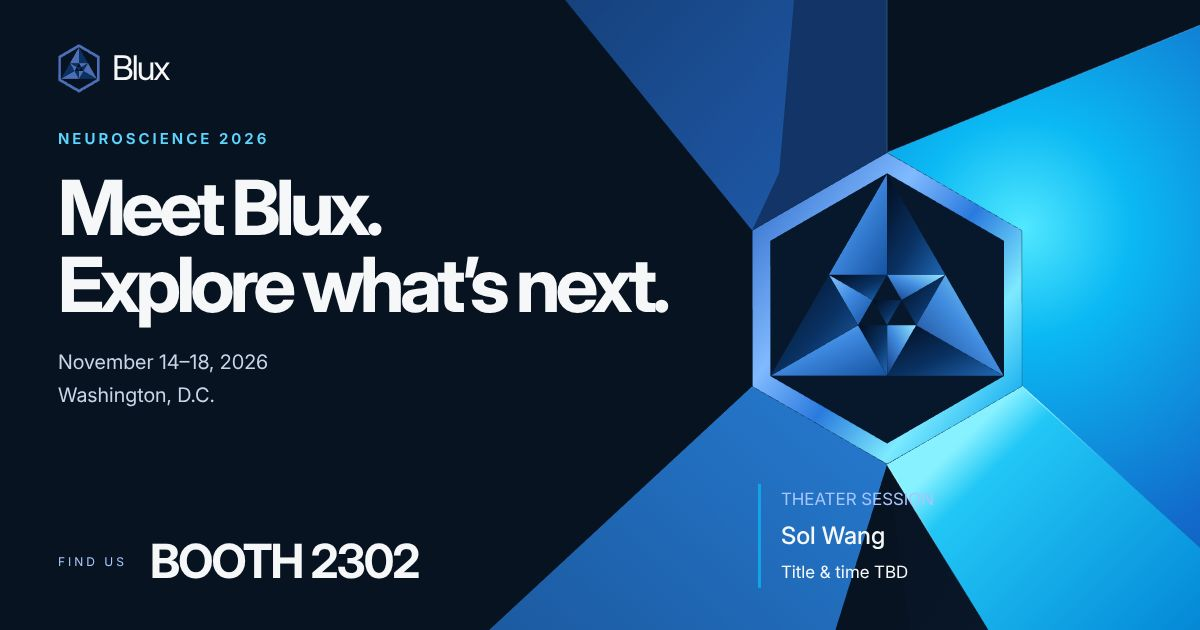
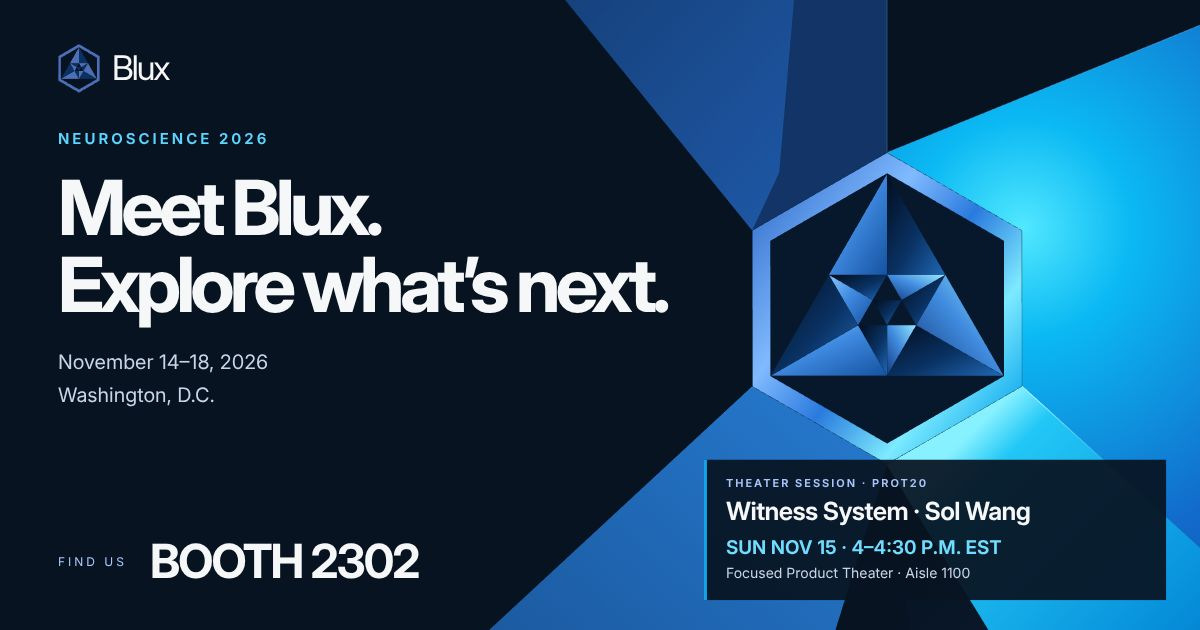
Publish confirmed SfN Product Theater schedule and social preview

Changed region(s): [[0.5858, 0.7238, 0.9867, 0.9651]]

diff --git a/public/events/neuroscience-2026/index.html b/public/events/neuroscience-2026/index.html
@@ -5,21 +5,21 @@
   <meta name="viewport" content="width=device-width, initial-scale=1" />
   <meta name="theme-color" content="#081321" />
   <title>Meet Blux at Neuroscience 2026 · Booth 2302</title>
-  <meta name="description" content="Meet Blux at Booth 2302 at Neuroscience 2026 in Washington, D.C., November 14–18. Instruments and software for studying brain activity and behavior. Witness System presentation with Sol Wang; session approval and time pending." />
+  <meta name="description" content="Meet Blux at Booth 2302 at Neuroscience 2026. Join Sol Wang for Witness System on Sunday, November 15, 4:00–4:30 p.m. EST, at the Focused Product Theater, Aisle 1100. Session PROT20." />
   <link rel="canonical" href="https://bluxlabs.com/events/neuroscience-2026/" />
   <meta property="og:type" content="website" />
   <meta property="og:site_name" content="Blux Labs" />
   <meta property="og:title" content="Meet Blux at Neuroscience 2026 · Booth 2302" />
-  <meta property="og:description" content="November 14–18 · Washington, D.C. Meet our team at Booth 2302. Witness System presentation with Sol Wang — approval and time pending." />
+  <meta property="og:description" content="Witness System with Sol Wang · Sunday, Nov 15, 4:00–4:30 p.m. EST · Focused Product Theater, Aisle 1100 · PROT20. Visit Blux at Booth 2302." />
   <meta property="og:url" content="https://bluxlabs.com/events/neuroscience-2026/" />
-  <meta property="og:image" content="https://bluxlabs.com/assets/events/sfn-2026/share.jpg" />
+  <meta property="og:image" content="https://bluxlabs.com/assets/events/sfn-2026/share-20261104.jpg" />
   <meta property="og:image:width" content="1200" />
   <meta property="og:image:height" content="630" />
-  <meta property="og:image:alt" content="Meet Blux at Neuroscience 2026. Booth 2302. November 14–18, Washington, D.C." />
+  <meta property="og:image:alt" content="Meet Blux at Neuroscience 2026. Booth 2302. Witness System with Sol Wang: Sunday, November 15, 4:00–4:30 p.m. EST. Focused Product Theater, Aisle 1100. PROT20." />
   <meta name="twitter:card" content="summary_large_image" />
   <link rel="icon" href="../../favicon.svg" type="image/svg+xml" />
   <link rel="preload" href="../../assets/events/sfn-2026/Inter-latin-variable.woff2" as="font" type="font/woff2" crossorigin />
-  <link rel="stylesheet" href="../../assets/events/sfn-2026/event.css?v=20261031-witness" />
+  <link rel="stylesheet" href="../../assets/events/sfn-2026/event.css?v=20261104-session" />
   <script src="../../assets/events/sfn-2026/motion.js?v=20261012-r4"></script>
 </head>
 <body>
@@ -83,6 +83,7 @@
           <a class="button button-primary" href="#booth">Plan your visit <svg viewBox="0 0 24 24" aria-hidden="true" focusable="false"><path d="M5 19 19 5M5 5h14v14" /></svg></a>
           <a class="button button-secondary" href="#theater">Theater session</a>
         </div>
+        <a class="hero-session" href="#theater">Theater session · Sun, Nov 15 · 4:00–4:30 p.m. EST <span aria-hidden="true">↓</span></a>
       </div>
       <div class="motion-controls" aria-label="Animation controls" hidden>
         <button type="button" class="motion-replay"><svg viewBox="0 0 24 24" aria-hidden="true"><path d="M4 10a8 8 0 1 1 1 8M4 4v6h6"/></svg>Replay intro</button>
@@ -108,21 +109,25 @@
         </figure>
       </section>
       <section id="theater" class="theater-panel" tabindex="-1" aria-labelledby="theater-title">
-        <p class="label">Event highlight</p>
+        <p class="label">Confirmed session · PROT20</p>
         <h2 id="theater-title">Theater<br />session</h2>
         <div class="accent-line" aria-hidden="true"></div>
+        <div class="session-slot">
+          <p><time datetime="2026-11-15">Sunday, November 15, 2026</time></p>
+          <p class="session-clock"><time datetime="2026-11-15T16:00:00-05:00">4:00</time>–<time datetime="2026-11-15T16:30:00-05:00">4:30 p.m.</time></p>
+          <p class="session-timezone">EST · Washington, D.C. local time</p>
+        </div>
         <h3 class="session-title">Witness System: Handle &amp; Analyze &amp; Share Your Interactive Behavioral Experiment on a Game Engine</h3>
         <p class="session-summary">Explore the Witness System: 3-D reconstruction of animal movement in a digital twin experiment arena, closed-loop feedback through a game engine, and shareable experiment structure, operation logic, and datasets.</p>
         <a class="text-link session-product-link" href="../../products/witness-system/">Explore Witness System <svg viewBox="0 0 24 24" aria-hidden="true" focusable="false"><path d="M5 19 19 5M5 5h14v14" /></svg></a>
         <dl class="session-details">
           <div><dt>Speaker</dt><dd><a href="../../team/sol-wang/">Sol Wang</a></dd></div>
-          <div><dt>Format</dt><dd>Focused Theater</dd></div>
-          <div><dt>Time</dt><dd>TBD</dd></div>
+          <div><dt>Location</dt><dd>Focused Product Theater<span class="session-location-detail">Exhibit Hall · Aisle 1100</span></dd></div>
         </dl>
-        <p class="session-note">Application pending SfN Program Committee approval. Session time will be announced after confirmation.</p>
+        <p class="session-note">Find the Blux team at <a href="#booth">Booth 2302</a> before or after the session.</p>
         <details class="session-abstract">
           <summary>Read the full presentation abstract</summary>
-          <p>Exploring the relationship between neural activity and complex real-world events requires many interactive design, complicated operation and analysis. This presentation demonstrates the Witness System, an automatic high-performance digital twin system that provides intuitive 3-D reconstructed animal body movement embedded in the accurate experiment arena, with closed-loop feedback based on game engine that allows sharing not only the structure but also the operation logic of the experiment for easy reproducing, provides unified dataset for various analysis pipelines as well as building foundation model.</p>
+          <p>Linking neural activity to complex behaviors requires intricate experimental design and analysis. Here, we present the Witness System, an automated, high-performance digital twin platform. It reconstructs 3D animal kinematics within an accurate virtual arena and leverages a game engine for closed-loop feedback. Witness enables seamless sharing of arena structures and experimental logic, generating unified and synchronized datasets for diverse analysis pipelines and foundation models.</p>
         </details>
       </section>
     </div>

diff --git a/public/assets/events/sfn-2026/event.css b/public/assets/events/sfn-2026/event.css
@@ -53,6 +53,9 @@ svg { width: 24px; height: 24px; fill: none; stroke: currentColor; stroke-width:
 h1 { margin-top: 3vw; font-size: clamp(58px, 6.85vw, 130px); line-height: .99; letter-spacing: -.064em; font-weight: 730; }
 .hero-intro { margin-top: 2vw; font-size: clamp(18px, 1.85vw, 32px); line-height: 1.35; letter-spacing: -.026em; }
 .hero-actions { display: flex; flex-wrap: wrap; gap: 18px; margin-top: 2.4vw; }
+.hero-session { display: flex; align-items: center; gap: 16px; width: fit-content; max-width: 100%; min-height: 44px; margin-top: 16px; font-size: clamp(13px, 1.05vw, 18px); line-height: 1.6; color: #a8e7ff; }
+.hero-session:hover { color: #fff; text-decoration: underline; text-underline-offset: 5px; }
+.hero-session span { flex-shrink: 0; }
 .button { display: inline-flex; align-items: center; justify-content: center; gap: 24px; min-height: clamp(52px, 4.7vw, 82px); padding: 0 28px; border: 1px solid transparent; border-radius: 2px; font-size: clamp(16px, 1.55vw, 26px); font-weight: 500; transition: background-color 160ms ease, border-color 160ms ease; }
 .button-primary { background: var(--cyan); color: var(--ink); }
 .button-primary:hover { background: #53caff; }
@@ -88,6 +91,9 @@ h1 { margin-top: 3vw; font-size: clamp(58px, 6.85vw, 130px); line-height: .99; l
 .theater-panel > .label { color: #a8c5fc; margin-bottom: 2.2vw; }
 .theater-panel h2 { font-size: clamp(46px, 5.9vw, 106px); font-weight: 710; line-height: 1.03; letter-spacing: -.055em; }
 .accent-line { height: 4px; width: 32px; background: var(--cyan); margin: 2.5vw 0; }
+.session-slot { margin: 0 0 30px; padding-bottom: 26px; border-bottom: 1px solid #33465c; font-size: clamp(16px, 1.4vw, 22px); line-height: 1.6; color: #d3dfef; }
+.session-clock { color: #70ddff; font-size: clamp(29px, 3vw, 45px); font-weight: 650; letter-spacing: -.04em; margin-top: 8px; line-height: 1.25; }
+.session-timezone { margin-top: 10px; font-size: 14px; color: #a9bbd1; }
 .session-title { margin: 0 0 22px; font-size: clamp(22px, 2.15vw, 34px); font-weight: 600; line-height: 1.3; letter-spacing: -.025em; overflow-wrap: anywhere; }
 .session-summary { color: #d3dfef; font-size: clamp(15px, 1.2vw, 19px); line-height: 1.7; margin-bottom: 26px; }
 .session-abstract { margin-top: 24px; border-top: 1px solid #33465c; font-size: clamp(14px, 1.15vw, 18px); line-height: 1.7; }
@@ -100,7 +106,10 @@ h1 { margin-top: 3vw; font-size: clamp(58px, 6.85vw, 130px); line-height: .99; l
 .session-details dd { font-size: clamp(20px, 2.2vw, 36px); font-weight: 450; letter-spacing: -.025em; }
 .session-details dd a { display: inline-flex; align-items: center; min-height: 44px; text-decoration: underline; text-decoration-thickness: 1px; text-underline-offset: 7px; text-decoration-color: #6682ab; }
 .session-details dd a:hover { color: #a8c5fc; }
+.session-details dd:has(.session-location-detail) { font-size: clamp(19px, 1.65vw, 28px); line-height: 1.4; }
+.session-location-detail { display: block; margin-top: 8px; color: #a8c5fc; font-size: clamp(15px, 1.2vw, 19px); letter-spacing: 0; }
 .session-note { color: var(--muted); margin-top: 24px; font-size: clamp(14px, 1.4vw, 22px); line-height: 1.5; }
+.session-note a { color: #a8c5fc; text-decoration: underline; text-underline-offset: 4px; }
 .event-footer { display: flex; justify-content: space-between; align-items: center; padding: 2vw var(--gutter); gap: 32px; background: var(--navy); }
 .footer-contact > .label { color: #a8c5fc; font-size: clamp(10px, .9vw, 16px); }
 .footer-contact > div { display: flex; margin-top: 8px; gap: 28px; align-items: center; }

diff --git a/scripts/sfn-share-source.html b/scripts/sfn-share-source.html
@@ -1,0 +1,10 @@
+<!doctype html>
+<html lang="en"><head><meta charset="utf-8" /><title>Blux Neuroscience 2026 — social cover source</title>
+<style>
+@font-face{font-family:Inter;src:url('/assets/events/sfn-2026/Inter-latin-variable.woff2') format('woff2');font-weight:100 900}
+*{box-sizing:border-box}body{position:relative;margin:0;width:1200px;height:630px;overflow:hidden;background:#081321;color:#f6f7f8;font-family:Inter,Arial,sans-serif;-webkit-font-smoothing:antialiased}.planes{position:absolute;left:111px;top:-67px;width:1215px;height:auto}.copy{position:absolute;inset:44px 58px}.brand{display:flex;align-items:center;gap:12px;font-size:34px;letter-spacing:-2px}.brand img{width:42px;height:auto}.kicker{margin-top:37px;font-size:15px;font-weight:650;letter-spacing:3px;color:#5bd4ff}h1{font-size:76px;letter-spacing:-5px;line-height:1.01;margin:22px 0 24px;font-weight:730}.place{font-size:20px;line-height:1.6;color:#c9d5e6}.booth{position:absolute;left:58px;bottom:40px;display:flex;align-items:center;gap:23px}.booth small{font-size:12px;letter-spacing:3px;color:#a8c5fc}.booth strong{font-size:47px;letter-spacing:-2px}.emblem{position:absolute;left:752px;top:152px;width:270px;height:auto}.theater{position:absolute;left:704px;right:34px;bottom:30px;border-left:3px solid #12a4e8;padding:15px 19px;background:#081321ed;font-size:16px;line-height:1.6}.theater .label{font-size:11px;font-weight:650;letter-spacing:2px;color:#a8c5fc}.theater strong{display:block;font-size:25px;font-weight:650;letter-spacing:-.6px}.theater .time{display:block;font-size:19px;font-weight:650;color:#70ddff}.theater .location{font-size:14px;color:#c9d5e6}.theater p{margin:0}
+</style></head><body>
+<img class="planes" src="/assets/events/sfn-2026/hero-scene.svg" alt="" />
+<div class="copy"><div class="brand"><img src="/assets/logo.svg" alt="" />Blux</div><div class="kicker">NEUROSCIENCE 2026</div><h1>Meet Blux.<br />Explore what’s next.</h1><div class="place">November 14–18, 2026<br />Washington, D.C.</div></div>
+<div class="booth"><small>FIND US</small><strong>BOOTH 2302</strong></div><div class="theater"><p class="label">THEATER SESSION · PROT20</p><strong>Witness System · Sol Wang</strong><span class="time">SUN NOV 15 · 4–4:30 P.M. EST</span><p class="location">Focused Product Theater · Aisle 1100</p></div>
+</body></html>

diff --git a/README.md b/README.md
@@ -22,7 +22,9 @@ The overview and three detail images in `public/assets/products/witness/` are re
 
 ## Neuroscience 2026 event page
 
-The standalone page at `/events/neuroscience-2026/` is authored in `public/events/neuroscience-2026/index.html` and copied intact by Vite. Its styles, motion, social cover and optimized assets are under `public/assets/events/sfn-2026/`. Update the speaker, title and time in the HTML; the presentation title is supplied, and the session time remains TBD pending confirmation. The responsive page includes direct booth/theater links, pause/replay controls and reduced-motion support.
+The standalone page at `/events/neuroscience-2026/` is authored in `public/events/neuroscience-2026/index.html` and copied intact by Vite. Its styles, motion, social cover and optimized assets are under `public/assets/events/sfn-2026/`. The confirmed Witness System session is Sunday, November 15, 2026, 4:00–4:30 p.m. EST (Washington, D.C. local time), with Sol Wang at the Focused Product Theater, Aisle 1100, session PROT20. Blux's exhibit booth is 2302. The responsive page includes direct booth/theater links, pause/replay controls and reduced-motion support.
+
+The social cover source is `scripts/sfn-share-source.html` (1200 × 630). Render it with the site's `/assets/` available, then export a JPEG to `public/assets/events/sfn-2026/share-20261104.jpg` and the legacy `share.jpg`. The versioned Open Graph URL gives newly shared links the confirmed session details; social platforms may retain previews for existing posts.
 
 Run `python3 scripts/build-sfn-art.py` to regenerate the inline hero and `hero-scene.svg` from the exact original logo paths. The shared scene keeps the logo and adjoining planes aligned. The event uses a Latin WOFF2 subset of Inter with the included SIL license and 420/840 px WebP versions of the original Miniscope render. Preserve the source logo and product image when updating these display assets. Production continues through the existing `main` GitHub Pages workflow.
 
